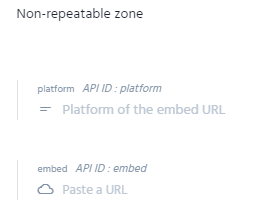
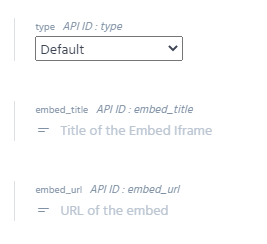
update documentation

diff --git a/README.md b/README.md
@@ -46,6 +46,7 @@ Therefore the starter has following features:
   - The right image size for every screen size
   - Traced SVG Loading (Lazy-Loading)
   - WebP Support
+  - Prismic Imgix transformations
 - SEO
   - Sitemap
   - OpenGraph Tags
@@ -78,7 +79,7 @@ Therefore the starter has following features:
 ### Article
 
 - Create a _Repeatable_ custom type with name _Article._
-- Simply paste the JSON schema in _src/schemas/article.json_ file in the _JSON editor_ of the _Article_ type in _Prismic_. This will create all the below fields in the _Article_ type on the fly for you.
+- Simply paste the JSON schema in `_src/schemas/article.json_` file in the _JSON editor_ of the `_Article_` type in _Prismic_. This will create all the below fields in the _Article_ type on the fly for you.
 - Beauty of Prismic Slices is that they are optional data sections which can be customized very easily in the Prismic UI.
 - **`Primary`** content of the article:
 
@@ -94,43 +95,27 @@ Therefore the starter has following features:
 
 - **`Slices`**(Optional):
 
-  - **Text** (Rich Text Section) **→** Rich WYSIWYG editor content which is consumed in the UI as the HTML
+  - **Content**: This slice has 3 types (Rich Text, Raw Text, and Quote) based on which the `content` is rendered in the UI.
 
-    ![Rich Text Slice](https://github.com/iamsainikhil/gatsby-prismic-blog-starter/raw/master/README_images/prismic_article_data_fields_slice_text.png)
+    - **Text** (Rich Text Section) **→** Rich WYSIWYG editor content which is consumed in the UI as the HTML
 
-  - **Raw Text** (Raw Text Section) → WYSIWYG editor content which is consumed in the UI as the raw content i.e unescaped HTML content. Use case of this slice is to mark any inline code content.
+    - **Raw Text** (Raw Text Section) → WYSIWYG editor content which is consumed in the UI as the raw content i.e unescaped HTML content. Use case of this type is to mark any inline code content.
 
-  > Note: enclose any content inside `code` tag like `<code>inline code content</code>` to apply styling of inline code.
+    > Note: enclose any content inside `code` tag like `<code>inline code content</code>` to apply styling of inline code.
 
+    - **Quote** (Blockquote Section) → Select this type to have any blockquote content in the article
 
-        ![Raw Text Slice](https://github.com/iamsainikhil/gatsby-prismic-blog-starter/raw/master/README_images/prismic_article_data_fields_slice_raw_content.png)
+  ![Content Slice](https://github.com/iamsainikhil/gatsby-prismic-blog-starter/raw/master/README_images/prismic_article_data_fields_slice_content.png)
 
-    - **Quote** (Blockquote Section) → Use this slice to have any blockquote content in the article
+  - **Image** (banner or gallery) → Use this slice to show a `banner` (single image with caption) or a `gallery` (group of images)
 
-        ![Quote Slice](https://github.com/iamsainikhil/gatsby-prismic-blog-starter/raw/master/README_images/prismic_article_data_fields_slice_quote.png)
+    ![Image Slice](https://github.com/iamsainikhil/gatsby-prismic-blog-starter/raw/master/README_images/prismic_article_data_fields_slice_image.png)
 
-    - **Image Gallery** (slideshow kind of images Section) → Use this slice to have many images grouped together to be shown in a gallery view.
-
-        This slice has two fields:
-
-           Non-repeatable fields
-
-        - **name_of_the_gallery →** Name of the gallery
-
-          Repeatable Fields
-
-        - **gallery_image →** Image
-        - **image_caption →** Caption of the image
-
-        ![Image Gallery Slice](https://github.com/iamsainikhil/gatsby-prismic-blog-starter/raw/master/README_images/prismic_article_data_fields_slice_gallery.png)
-
-    - **Banner** (Single image with caption Section) **→** Use this slice to show a single image with caption.
-
-        ![Banner Slice](https://github.com/iamsainikhil/gatsby-prismic-blog-starter/raw/master/README_images/prismic_article_data_fields_slice_banner.png)
 
     - **Embed** → Use this slice to embed any platform content like YouTube, Vimeo, GitHub Gist, CodeSandbox, CodePen, etc.
-        - **platform** → name of the platform like "GitHub", "YouTube", etc.
-        - **embed →** URL of the embed which will be consumed in an iframe in the UI
+        - **type** → Type of the embed like `GitHub Gist` or `Default` (YouTube, Vimeo, CodeSandbox, etc).
+        - **embed_title** → Title of the embed.
+        - **embed_url →** URL of the embed which will be consumed in an iframe in the UI
 
         ![Embed Slice](https://github.com/iamsainikhil/gatsby-prismic-blog-starter/raw/master/README_images/prismic_article_data_fields_slice_embed.png)
 
@@ -143,7 +128,7 @@ Therefore the starter has following features:
         ![Meta Information Slice](https://github.com/iamsainikhil/gatsby-prismic-blog-starter/raw/master/README_images/prismic_article_data_fields_slice_meta_info.png)
 
     - **Code →** Use this slice to show any code block in the article
-        - **type →** Mention the type of scenario where this code block is used. For ex- type of "list" will add some padding to the code block.
+        - **type →** Mention the type of scenario where this code block is used. For ex- type of "List" will add some padding to the code block.
         - **lang →** Language of the code to have appropriate syntax highlighting using PrismJS
         - **code →** Actual code content
 
@@ -167,7 +152,7 @@ Therefore the starter has following features:
 ### Author
 
 - Create a _Repeatable_ custom type with name _Author._
-- Simply paste the JSON schema in _src/schemas/author.json_ file in the _JSON editor_ of the _Author_ type in _Prismic_. This will create all the below fields in the _Author_ type on the fly for you.
+- Simply paste the JSON schema in `_src/schemas/author.json_` file in the _JSON editor_ of the `_Author_` type in _Prismic_. This will create all the below fields in the _Author_ type on the fly for you.
 - Contents:
   - **uid →** URL slug of the author
   - **name →** Name of the author
@@ -177,10 +162,12 @@ Therefore the starter has following features:
     - **platform_name →** Name of the platform (Facebook, Twitter, LinkedIn, Medium, GitHub, CodePen, Portfolio (website). However, you can customize the icons which is discussed later.
     - **platform_url →** URL of the platform
 
+![Author schema](https://github.com/iamsainikhil/gatsby-prismic-blog-starter/raw/master/README_images/prismic_author.png)
+
 ### Category
 
 - Create a _Repeatable_ custom type with name _Category._
-- Simply paste the JSON schema in _src/schemas/category.json_ file in the _JSON editor_ of the _Category_ type in _Prismic_. This will create all the below fields in the _Category_ type on the fly for you.
+- Simply paste the JSON schema in `_src/schemas/category.json_` file in the _JSON editor_ of the `_Category_` type in _Prismic_. This will create all the below fields in the _Category_ type on the fly for you.
 - Contents:
   - **name →** Name of the category
 
@@ -211,7 +198,7 @@ Therefore the starter has following features:
    ```json
     GA_ID=<your Google Analytics tracking ID> (Optional)
 
-    PRISMIC_REPOSITORY_NAME=<your prismic repository name> (Required)
+    GATSBY_PRISMIC_REPOSITORY_NAME=<your prismic repository name> (Required)
 
     PRISMIC_ACCESS_TOKEN=<your prismic permanent access token> (Required)
 
@@ -417,10 +404,10 @@ Prismic Webhook allows you to automatically or manually trigger a deployment pro
 
 - [x] Publish this starter as a template
 - [x] Analytics support (Google Analytics)
+- [ ] Prismic Preview Setup
 - [ ] Pagination Feature
 - [ ] Search Feature
 - [ ] Testing
-- [ ] Prismic Preview Setup
 
 # **🙌 Contribution**
 
